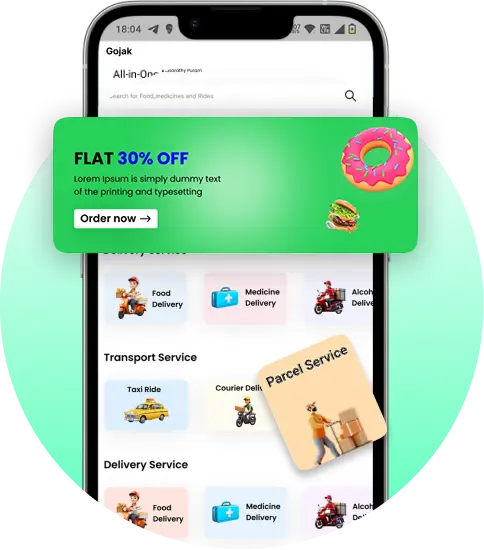
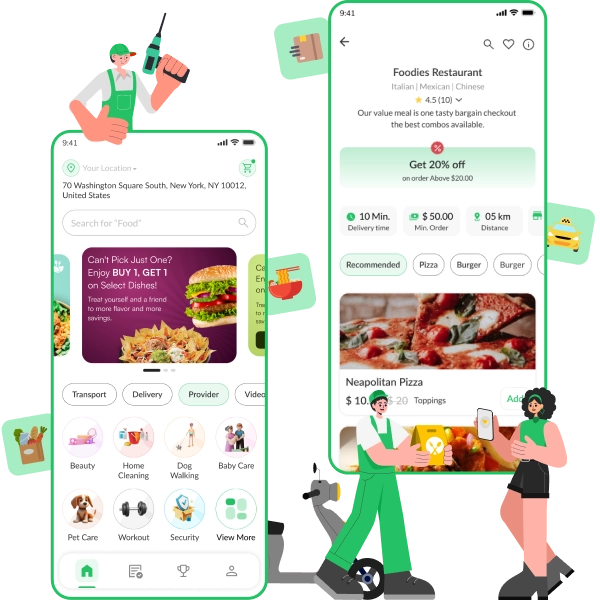
add top header

diff --git a/react-app-v2/tools/image-replacer/reports/image-inventory.html b/react-app-v2/tools/image-replacer/reports/image-inventory.html
@@ -24,7 +24,7 @@
   code{font-family:ui-monospace,Consolas,monospace;font-size:11.5px}
   </style></head><body>
   <h1>Image Inventory Report</h1>
-  <div>Generated 2026-08-28T07:23:37.606Z &middot; Phase 1 (discovery only) &middot; nothing was modified or fetched from the internet</div>
+  <div>Generated 2026-08-28T07:37:02.299Z &middot; Phase 1 (discovery only) &middot; nothing was modified or fetched from the internet</div>
   <div class="summary">
     <div class="stat"><b>29</b>routes</div>
     <div class="stat"><b>259</b>components scanned</div>
@@ -3509,16 +3509,16 @@
       <td><img class="thumb" src="http://localhost:4000/wp-content/uploads/2025/04/What-We-Offer.png" loading="lazy"></td>
       <td><code>/wp-content/uploads/2025/04/What-We-Offer.png</code></td>
       <td><span class="tag used">used</span></td>
-      <td>1051&times;621</td>
-      <td>408.3 KB</td>
+      <td>3142&times;2252</td>
+      <td>777.8 KB</td>
       <td><div>/gojek-clone &middot; <code>src/components/gojek/ServiceOfferTabs.jsx</code> &middot; Service Offer Tabs</div></td>
     </tr>
     <tr class="row-used">
       <td><img class="thumb" src="http://localhost:4000/wp-content/uploads/2025/08/gojek-hiw.webp" loading="lazy"></td>
       <td><code>/wp-content/uploads/2025/08/gojek-hiw.webp</code></td>
       <td><span class="tag used">used</span></td>
-      <td>484&times;550</td>
-      <td>33.3 KB</td>
+      <td>600&times;600</td>
+      <td>85.2 KB</td>
       <td><div>/gojek-clone &middot; <code>src/components/gojek/WhatIsGojek.jsx</code> &middot; What Is Gojek</div></td>
     </tr>
     <tr class="row-used">
